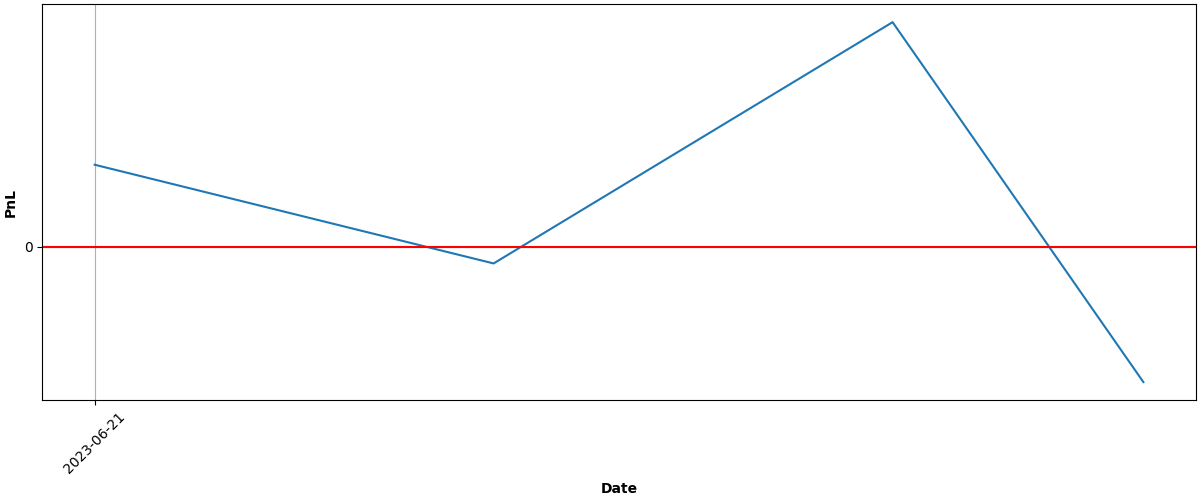
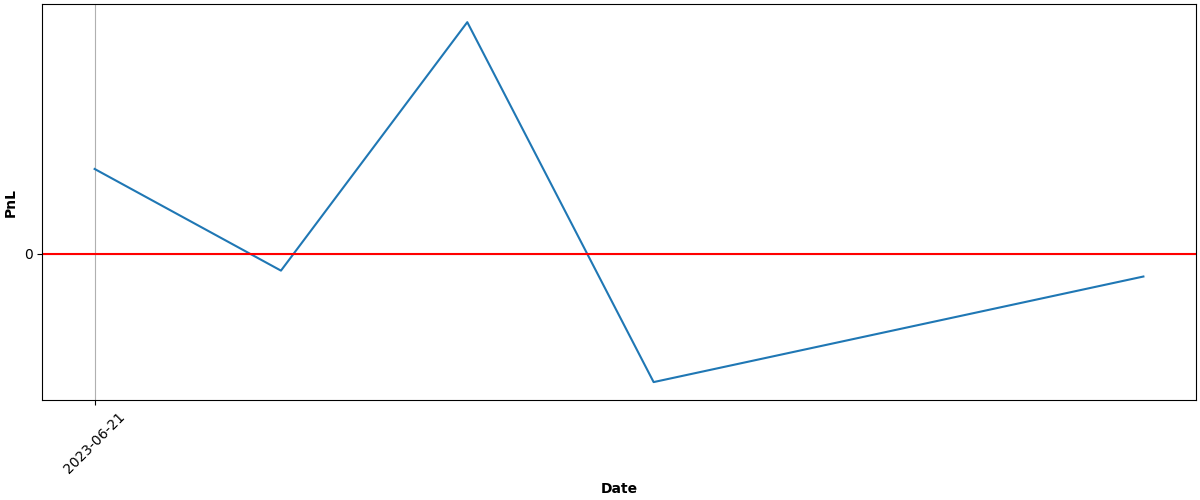
Automated Buy At Mon Jun 26 15:04:47 UTC 2023 Run ID 5379800332

diff --git a/README.md b/README.md
@@ -68,9 +68,9 @@ Results
 
 | Asset | Average Price | Current Price | ROI | 📈 |
 | --- | --- | --- | --- | --- |
-| FNGU | $182.240937449 | $180.9599 | -0.70% | &#128308;&#128546; |
-| SVIX | $25.6575 | $26.59 | 3.63% | &#128994;&#128515; |
-| **Total** |  |  | **1.73%** | &#128994;&#128518; |
+| FNGU | $181.484805829 | $178.58 | -1.60% | &#128308;&#128546; |
+| SVIX | $25.6575 | $26.79 | 4.41% | &#128994;&#128515; |
+| **Total** |  |  | **1.45%** | &#128994;&#128518; |
 
 ### PnL over time (calculations may not be accurate):
 
@@ -81,6 +81,6 @@ Results
 ---
 
 
-Updated at 2023-06-23 15:05:14
+Updated at 2023-06-26 15:05:06
 
 
